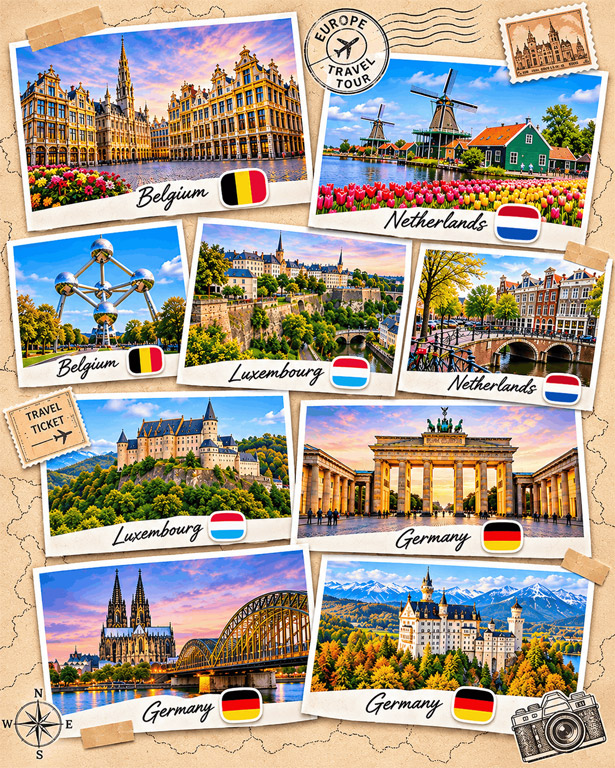
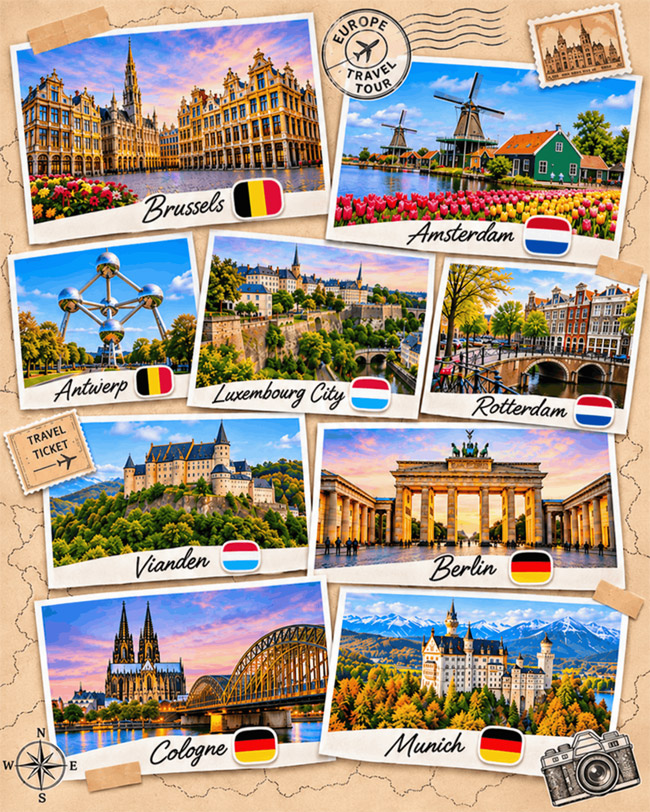
Refactor code structure for improved readability and maintainability

diff --git a/app/about/page.jsx b/app/about/page.jsx
@@ -14,7 +14,7 @@ const settings = getSiteSettings();
 export const metadata = {
   title: "About Us — RITA Tours N Travels",
   description:
-    "The RITA story: an Amsterdam-based European travel studio, the people who plan your journey, and our sustainability commitments.",
+    "RITA Tours N Travels is an EU-registered travel studio crafting immersive day journeys—connecting you with authentic food, deep local history, and a real person behind every itinerary.",
   openGraph: {
     title: "About RITA Tours N Travels",
     description: settings.brand.description,

diff --git a/src/components/about/CompanyStory.jsx b/src/components/about/CompanyStory.jsx
@@ -32,7 +32,7 @@ export default function CompanyStory({ story }) {
 
           <div className="mt-8 flex items-center gap-3 border-t border-navy/10 pt-6">
             <span className="grid h-11 w-11 place-items-center rounded-full bg-navy font-heading text-[13px] font-semibold text-white">
-              RV
+              JC
             </span>
             <div>
               <p className="font-heading text-[14px] font-semibold text-navy">{story.signature}</p>
